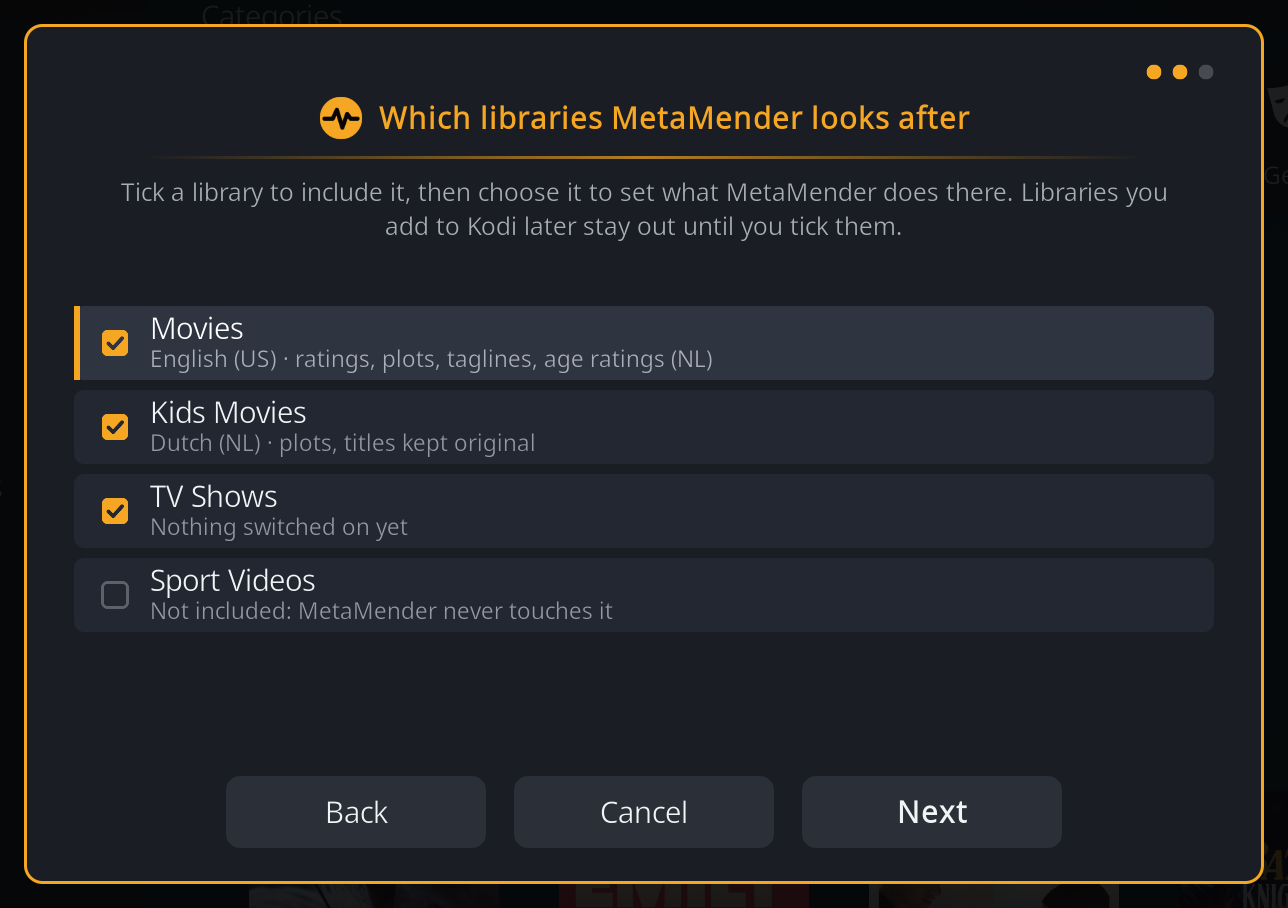
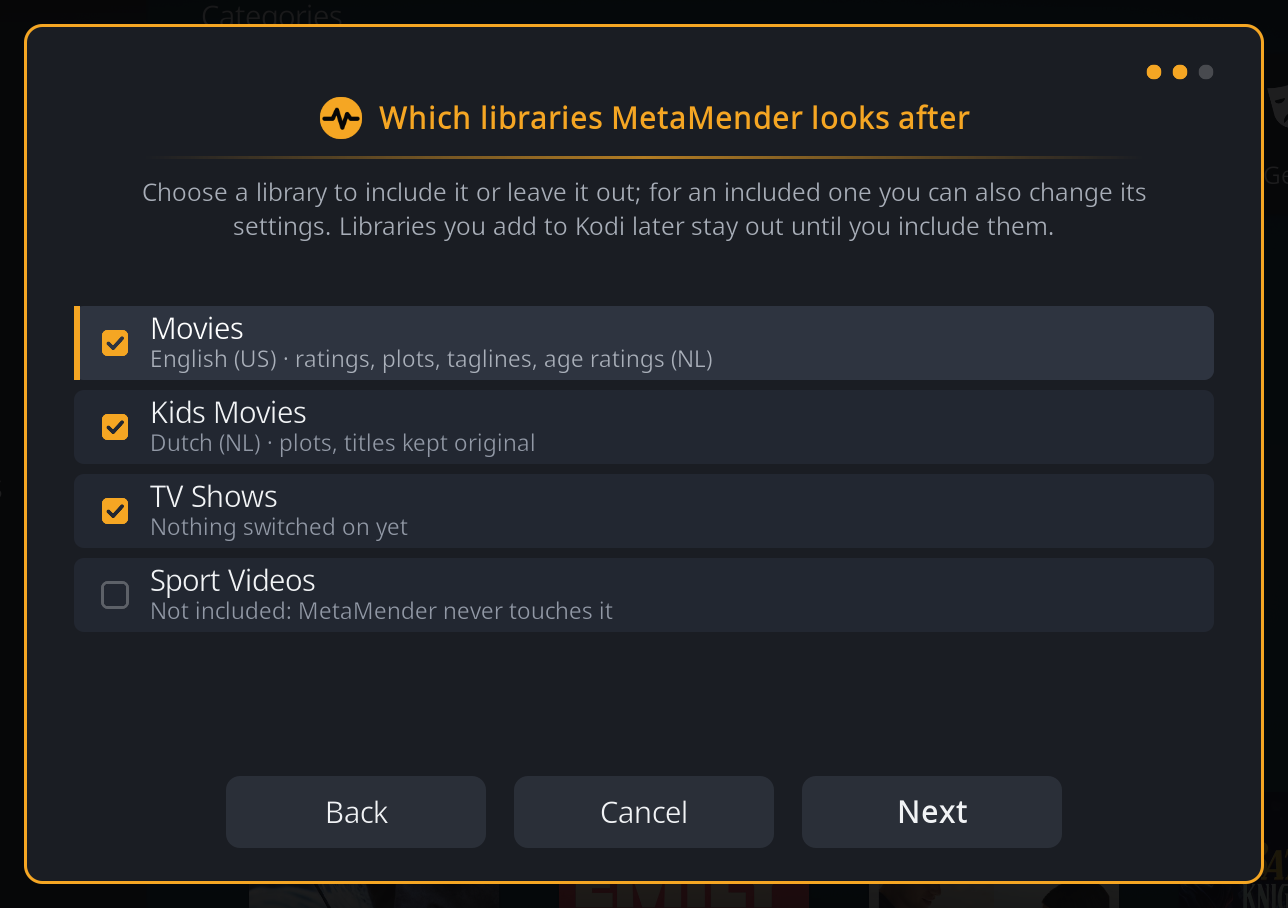
docs(screenshots): save question, unread-settings notice, age ratings
New scenes for the question Cancel asks with changed libraries (Kodi's
own yes/no dialog over the library list), the conversion notice when
the 1.1 choices could not be read, and the Age ratings group of a
library page. The library list is retaken with its current wording;
the other setup and attention shots came out unchanged.

Changed region(s): [[0.0932, 0.185, 0.9006, 0.2775]]

diff --git a/docker/scripts/screenshot_helper/default.py b/docker/scripts/screenshot_helper/default.py
@@ -12,6 +12,7 @@ special://temp (or a minute passes), then closes.
 """
 from __future__ import annotations
 
+import functools
 import json
 import os
 import sys
@@ -72,13 +73,19 @@ def _close_dialogs() -> None:
 class _FocusedSetup(sw.SetupWindow):
     """Opens with the scene's row selected. "scroll": "end" first selects
     the last row, so the list scrolls up to the focused row from below and
-    shows the rows after it rather than the ones before."""
+    shows the rows after it rather than the ones before. "question" puts
+    the save question of Cancel with changed libraries over the window."""
 
     focus_key: str | None = None
     scroll_end: bool = False
+    question: bool = False
 
     def onInit(self) -> None:
         self._render()
+        if self.question:
+            # From a thread: a modal dialog opened inside onInit would hold
+            # the window's own initialisation until it closed.
+            threading.Thread(target=self._ask, daemon=True).start()
         rows = self.controller.rows()
         index = next((i for i, row in enumerate(rows) if row.key == self.focus_key), None)
         if index is None:
@@ -86,6 +93,15 @@ class _FocusedSetup(sw.SetupWindow):
         if self.scroll_end:
             self._list().selectItem(len(rows) - 1)
         self._list().selectItem(index)
+
+    def _ask(self) -> None:
+        # The question on_cancel asks; its answer is thrown away.
+        self.controller._dialogs.yesno(self.controller.heading(), lang(32708))
+
+
+def _close_setup(window: sw.SetupWindow) -> None:
+    _close_dialogs()
+    window.close()
 
 
 def setup(scene: dict) -> None:
@@ -100,7 +116,8 @@ def setup(scene: dict) -> None:
     window.controller = controller
     window.focus_key = scene.get("focus")
     window.scroll_end = scene.get("scroll") == "end"
-    _watch(window.close)
+    window.question = bool(scene.get("question"))
+    _watch(functools.partial(_close_setup, window))
     window.doModal()
     del window
 

diff --git a/tests/test_screenshot_scenes.py b/tests/test_screenshot_scenes.py
@@ -79,6 +79,25 @@ def test_attention_scenes_name_real_problems():
             assert all(kind in WINDOW_KINDS for kind, _ in scene.get("others", [])), name
 
 
+def test_question_scenes_wait_for_kodis_question_over_setup():
+    """The save question is Kodi's own yes/no dialog over the setup window:
+    the runner waits for that dialog and crops to the setup panel."""
+    asking = [name for name, scene in SCENES.items() if scene.get("question")]
+    assert asking
+    for name in asking:
+        scene = SCENES[name]
+        assert scene["kind"] == "setup", name
+        assert scene["window"] == "script-metamender-setup.xml", name
+        assert scene.get("active") == "yesnodialog", name
+
+
+def test_a_scene_shows_the_notice_for_unread_1_1_settings():
+    from resources.lib.service.attention import SETTINGS_UNREAD
+    details = {scene.get("main_detail") for scene in SCENES.values()
+               if scene["kind"] == "attention" and scene["main"] == "libraries_converted"}
+    assert SETTINGS_UNREAD in details
+
+
 @pytest.fixture
 def demo(monkeypatch):
     from resources.lib.ui import details_model

diff --git a/docs/libraries.md b/docs/libraries.md
@@ -58,6 +58,8 @@ MetaMender asks whether to save your changes. **Yes** saves them as **Save**
 (or, in setup, **Finish**) does; **No** leaves every library as it was. Back
 on a library's page only returns to the list.
 
+![The question on Cancel with changed libraries](screenshots/setup/setup-save-question.png)
+
 ## A library's page
 
 ![The page of a library with nothing switched on yet](screenshots/setup/setup-library-page-new.png)
@@ -188,6 +190,8 @@ setting uses.
 Shown while **Age certifications** is ticked. See [Age ratings](age-ratings.md)
 for the countries, where ratings come from and what MetaMender writes.
 
+![The Age ratings group on the page of the Movies library](screenshots/setup/setup-library-page-age-ratings.png)
+
 **Certification country**
 :   The country whose rating system the library's age ratings are written in.
     **Automatic** (the default) uses the country of the library's language,
@@ -289,6 +293,8 @@ Nothing in your library changes and nothing is fetched again because of the
 conversion. One notice says that the settings are now per library;
 **Open Libraries** shows the result.
 
+![The notice after the conversion](screenshots/attention/attention-converted.png)
+
 Kodi removes settings an add-on no longer has from its settings file, for
 example when you open MetaMender's settings, so MetaMender copies your 1.1
 choices aside as soon as it starts. If Kodi removed them before that copy
@@ -297,7 +303,7 @@ every library 1.1 scanned is still included with its language, but nothing
 is switched on, and the notice says that your earlier choices could not be
 read. Open **Libraries** and tick what each library should fill.
 
-![The notice after the conversion](screenshots/attention/attention-converted.png)
+![The notice when the 1.1 choices could not be read](screenshots/attention/attention-converted-unread.png)
 
 The conversion needs to know your libraries. If MetaMender finds none when it
 starts (Kodi lists no video sources and the library has no items, or Kodi
